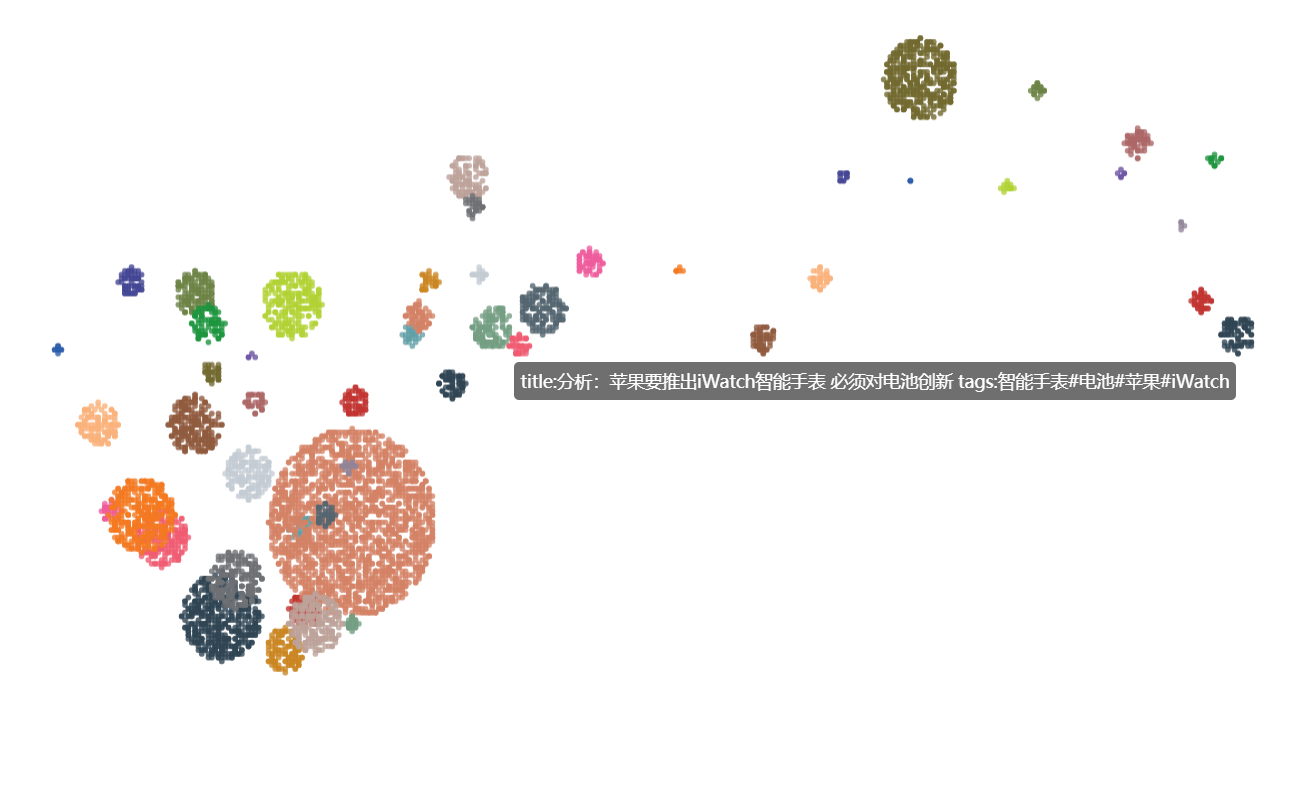
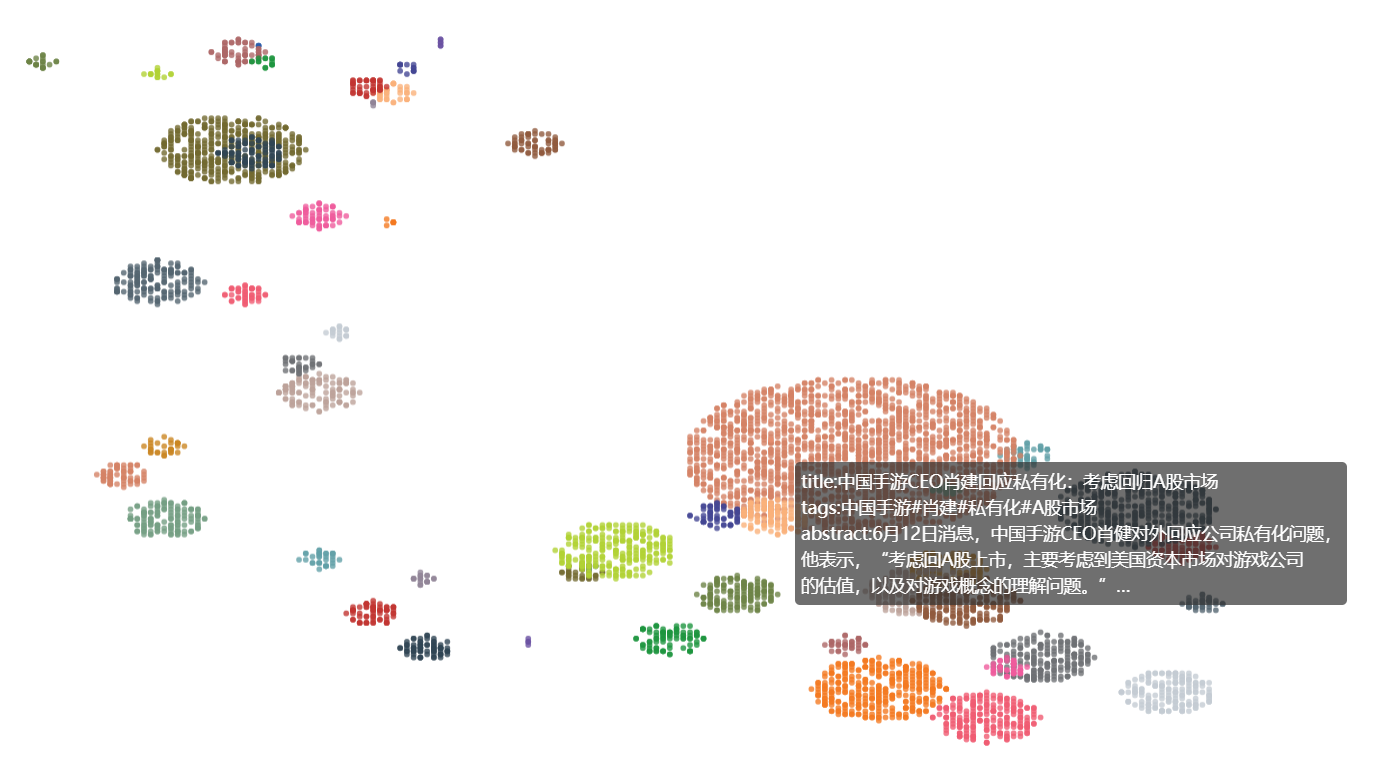
Site updated: 2020-06-12 12:40:28

diff --git a/2020/06/11/Techwalker聚类/index.html b/2020/06/11/Techwalker聚类/index.html
@@ -30,7 +30,7 @@
 <meta property="og:image" content="https://zeroing.tk/img/tech_hbase.png">
 <meta property="og:image" content="https://zeroing.tk/img/tech_result.png">
 <meta property="article:published_time" content="2020-06-11T10:29:59.000Z">
-<meta property="article:modified_time" content="2020-06-11T14:00:36.763Z">
+<meta property="article:modified_time" content="2020-06-12T04:39:32.487Z">
 <meta property="article:author" content="ZY">
 <meta property="article:tag" content="Python">
 <meta property="article:tag" content="课设">
@@ -183,10 +183,16 @@
                 <i class="far fa-calendar"></i>
               </span>
               <span class="post-meta-item-text">发表于</span>
-              
 
-              <time title="创建时间：2020-06-11 18:29:59 / 修改时间：22:00:36" itemprop="dateCreated datePublished" datetime="2020-06-11T18:29:59+08:00">2020-06-11</time>
+              <time title="创建时间：2020-06-11 18:29:59" itemprop="dateCreated datePublished" datetime="2020-06-11T18:29:59+08:00">2020-06-11</time>
             </span>
+              <span class="post-meta-item">
+                <span class="post-meta-item-icon">
+                  <i class="far fa-calendar-check"></i>
+                </span>
+                <span class="post-meta-item-text">更新于</span>
+                <time title="修改时间：2020-06-12 12:39:32" itemprop="dateModified" datetime="2020-06-12T12:39:32+08:00">2020-06-12</time>
+              </span>
             <span class="post-meta-item">
               <span class="post-meta-item-icon">
                 <i class="far fa-folder"></i>
@@ -242,7 +248,7 @@
 <figure class="highlight python"><table><tr><td class="gutter"><pre><span class="line">1</span><br><span class="line">2</span><br><span class="line">3</span><br><span class="line">4</span><br><span class="line">5</span><br><span class="line">6</span><br><span class="line">7</span><br><span class="line">8</span><br><span class="line">9</span><br><span class="line">10</span><br><span class="line">11</span><br><span class="line">12</span><br><span class="line">13</span><br><span class="line">14</span><br><span class="line">15</span><br><span class="line">16</span><br><span class="line">17</span><br><span class="line">18</span><br><span class="line">19</span><br><span class="line">20</span><br><span class="line">21</span><br><span class="line">22</span><br><span class="line">23</span><br><span class="line">24</span><br><span class="line">25</span><br><span class="line">26</span><br><span class="line">27</span><br><span class="line">28</span><br><span class="line">29</span><br><span class="line">30</span><br><span class="line">31</span><br><span class="line">32</span><br><span class="line">33</span><br><span class="line">34</span><br><span class="line">35</span><br><span class="line">36</span><br><span class="line">37</span><br><span class="line">38</span><br><span class="line">39</span><br><span class="line">40</span><br><span class="line">41</span><br><span class="line">42</span><br><span class="line">43</span><br><span class="line">44</span><br></pre></td><td class="code"><pre><span class="line"><span class="keyword">import</span> happybase</span><br><span class="line"><span class="keyword">from</span> sklearn.feature_extraction.text <span class="keyword">import</span> CountVectorizer</span><br><span class="line"><span class="keyword">from</span> sklearn.cluster <span class="keyword">import</span> k_means_</span><br><span class="line"><span class="keyword">import</span> difflib</span><br><span class="line"></span><br><span class="line">num_clusters = <span class="number">50</span></span><br><span class="line"></span><br><span class="line"><span class="comment"># 计算两篇文章标签的近似程度</span></span><br><span class="line"><span class="function"><span class="keyword">def</span> <span class="title">get_equal_rate</span><span class="params">(str1, str2)</span>:</span></span><br><span class="line">    <span class="keyword">return</span> <span class="number">1</span>-difflib.SequenceMatcher(<span class="literal">None</span>, str1, str2).quick_ratio()</span><br><span class="line"></span><br><span class="line">print(<span class="string">'connecting table...'</span>)</span><br><span class="line">connection = happybase.Connection(<span class="string">'master'</span>)</span><br><span class="line">table = connection.table(<span class="string">'tech'</span>)</span><br><span class="line">rawdata = [i[<span class="number">1</span>] <span class="keyword">for</span> i <span class="keyword">in</span> table.scan()]</span><br><span class="line">connection.close()</span><br><span class="line"></span><br><span class="line">print(<span class="string">'getting data...'</span>)</span><br><span class="line">data = []</span><br><span class="line"><span class="keyword">for</span> i <span class="keyword">in</span> rawdata:</span><br><span class="line">    data.append([])</span><br><span class="line">    data[<span class="number">-1</span>] = [i[v].decode(<span class="string">'utf-8'</span>) <span class="keyword">for</span> v <span class="keyword">in</span> [<span class="string">b'essay:abstract'</span>, <span class="string">b'essay:tags'</span>, <span class="string">b'essay:title'</span>]] <span class="comment"># 确保数据以[摘要， 标签， 标题]的形式读入</span></span><br><span class="line">result = &#123;&#125;</span><br><span class="line"></span><br><span class="line">print(<span class="string">'get'</span>, len(data), <span class="string">'data, clusting...'</span>)</span><br><span class="line">count_vec=CountVectorizer()</span><br><span class="line">km_matrix= count_vec.fit_transform([i[<span class="number">1</span>] <span class="keyword">for</span> i <span class="keyword">in</span> data])</span><br><span class="line">k_means_.euclidean_distances = get_equal_rate <span class="comment"># 修改k_means的距离判断标准</span></span><br><span class="line">km = k_means_.KMeans(n_clusters=num_clusters)</span><br><span class="line">km.fit(km_matrix)</span><br><span class="line">labels = km.labels_.tolist()</span><br><span class="line"><span class="keyword">for</span> i <span class="keyword">in</span> range(len(data)):</span><br><span class="line">    <span class="keyword">if</span> int(labels[i]) <span class="keyword">not</span> <span class="keyword">in</span> result.keys():</span><br><span class="line">        result[int(labels[i])] = []</span><br><span class="line">    result[int(labels[i])].append(data[i])</span><br><span class="line"></span><br><span class="line"><span class="comment"># 将结果存入文件，以'@@'作为分割标志</span></span><br><span class="line">print(<span class="string">'inputing file...'</span>)</span><br><span class="line">file = open(<span class="string">'result.txt'</span>, <span class="string">'w'</span>)</span><br><span class="line"><span class="keyword">for</span> k <span class="keyword">in</span> result.keys():</span><br><span class="line">    <span class="keyword">for</span> v <span class="keyword">in</span> result[k]:</span><br><span class="line">        file.write(str(k)+<span class="string">'@@'</span>+<span class="string">'\t'</span>.join(v).replace(<span class="string">'\r\n'</span>, <span class="string">''</span>).replace(<span class="string">'\n'</span>, <span class="string">''</span>)+<span class="string">'\n'</span>)</span><br><span class="line">file.close()</span><br><span class="line">print(<span class="string">'finish'</span>)</span><br></pre></td></tr></table></figure>
 <hr>
 <h2 id="对聚类结果进行可视化展示"><a href="#对聚类结果进行可视化展示" class="headerlink" title="对聚类结果进行可视化展示"></a>对聚类结果进行可视化展示</h2><p>使用pyecharts库绘画</p>
-<figure class="highlight python"><table><tr><td class="gutter"><pre><span class="line">1</span><br><span class="line">2</span><br><span class="line">3</span><br><span class="line">4</span><br><span class="line">5</span><br><span class="line">6</span><br><span class="line">7</span><br><span class="line">8</span><br><span class="line">9</span><br><span class="line">10</span><br><span class="line">11</span><br><span class="line">12</span><br><span class="line">13</span><br><span class="line">14</span><br><span class="line">15</span><br><span class="line">16</span><br><span class="line">17</span><br><span class="line">18</span><br><span class="line">19</span><br><span class="line">20</span><br><span class="line">21</span><br><span class="line">22</span><br><span class="line">23</span><br><span class="line">24</span><br><span class="line">25</span><br><span class="line">26</span><br><span class="line">27</span><br><span class="line">28</span><br><span class="line">29</span><br><span class="line">30</span><br><span class="line">31</span><br><span class="line">32</span><br><span class="line">33</span><br><span class="line">34</span><br><span class="line">35</span><br><span class="line">36</span><br><span class="line">37</span><br><span class="line">38</span><br><span class="line">39</span><br><span class="line">40</span><br><span class="line">41</span><br><span class="line">42</span><br><span class="line">43</span><br><span class="line">44</span><br><span class="line">45</span><br><span class="line">46</span><br><span class="line">47</span><br><span class="line">48</span><br><span class="line">49</span><br><span class="line">50</span><br><span class="line">51</span><br><span class="line">52</span><br><span class="line">53</span><br><span class="line">54</span><br><span class="line">55</span><br><span class="line">56</span><br><span class="line">57</span><br><span class="line">58</span><br><span class="line">59</span><br><span class="line">60</span><br><span class="line">61</span><br></pre></td><td class="code"><pre><span class="line"><span class="keyword">import</span> random</span><br><span class="line"><span class="keyword">from</span> pyecharts.charts <span class="keyword">import</span> Scatter</span><br><span class="line"><span class="keyword">from</span> pyecharts <span class="keyword">import</span> options <span class="keyword">as</span> opts</span><br><span class="line"><span class="keyword">import</span> math</span><br><span class="line"><span class="keyword">from</span> pyecharts.commons.utils <span class="keyword">import</span> JsCode</span><br><span class="line"></span><br><span class="line"><span class="comment"># 设置x轴范围，在下面的画图过程中进行调试，以防由于x轴展示不全而导致数据丢失</span></span><br><span class="line">min_x = <span class="number">10000</span></span><br><span class="line">max_x = <span class="number">-10000</span></span><br><span class="line">setting = opts.InitOpts(width=<span class="string">'1200px'</span>, height=<span class="string">'750px'</span>, page_title=<span class="string">'techwalker聚类'</span>)</span><br><span class="line">scatter = Scatter(setting)</span><br><span class="line"><span class="comment"># 隐藏标签、x轴、y轴</span></span><br><span class="line">scatter.set_global_opts(title_opts=opts.TitleOpts(title=<span class="string">"聚类结果"</span>),</span><br><span class="line">                        xaxis_opts=opts.AxisOpts(is_show=<span class="literal">False</span>),</span><br><span class="line">                        yaxis_opts=opts.AxisOpts(is_show=<span class="literal">False</span>, ),</span><br><span class="line">                        legend_opts=opts.LegendOpts(is_show=<span class="literal">False</span>))</span><br><span class="line"></span><br><span class="line"></span><br><span class="line"><span class="comment"># 随机生成圆形，用以表示聚类结果</span></span><br><span class="line"><span class="function"><span class="keyword">def</span> <span class="title">draw_circle</span><span class="params">(num, radius, centerx, centery, v, k)</span>:</span></span><br><span class="line">	<span class="keyword">global</span> min_x, max_x</span><br><span class="line">    points_x, points_y = [], []</span><br><span class="line">    <span class="keyword">for</span> i <span class="keyword">in</span> range(num):</span><br><span class="line">        <span class="keyword">while</span> <span class="literal">True</span>:</span><br><span class="line">            x = random.randint(-radius, radius)</span><br><span class="line">            y = random.randint(-radius, radius)</span><br><span class="line">            <span class="comment"># 如果(x, y)在以(centerx, centery)为圆心、radius为半径的园内，则进行绘画</span></span><br><span class="line">            <span class="keyword">if</span> (x ** <span class="number">2</span>) + (y ** <span class="number">2</span>) &lt;= (radius ** <span class="number">2</span>):</span><br><span class="line">                points_x.append(centerx + x)</span><br><span class="line">                <span class="keyword">if</span> centerx + x &lt; min_x:</span><br><span class="line">                    min_x = centerx + x</span><br><span class="line">                <span class="keyword">if</span> centerx + x &gt; max_x:</span><br><span class="line">                    max_x = centerx + x</span><br><span class="line">                points_y.append([centery + y, <span class="string">'title:'</span>+v[i][<span class="number">2</span>]+<span class="string">' tags:'</span>+v[i][<span class="number">1</span>]])</span><br><span class="line">                <span class="keyword">break</span></span><br><span class="line">            <span class="keyword">del</span> x, y</span><br><span class="line">    scatter.add_xaxis(points_x)</span><br><span class="line">    <span class="comment"># 配置tooltips使其展示该点数据</span></span><br><span class="line">    scatter.add_yaxis(k, points_y, symbol_size=<span class="number">4.5</span>, label_opts=opts.LabelOpts(is_show=<span class="literal">False</span>), symbol_rotate=<span class="number">90</span>, tooltip_opts=opts.TooltipOpts(formatter=JsCode(<span class="string">"function(params) &#123;return params.value[2];&#125;"</span>)))<span class="comment"># </span></span><br><span class="line"></span><br><span class="line"></span><br><span class="line">print(<span class="string">'loading data...'</span>)</span><br><span class="line">result = &#123;&#125;</span><br><span class="line">file = open(<span class="string">'result.txt'</span>, <span class="string">'r'</span>, encoding=<span class="string">'utf-8'</span>)</span><br><span class="line"><span class="keyword">for</span> i <span class="keyword">in</span> file.readlines():</span><br><span class="line">    temp = i.split(<span class="string">'@@'</span>)</span><br><span class="line">    <span class="keyword">if</span> int(temp[<span class="number">0</span>]) <span class="keyword">not</span> <span class="keyword">in</span> result.keys():</span><br><span class="line">        result[int(temp[<span class="number">0</span>])] = []</span><br><span class="line">    result[int(temp[<span class="number">0</span>])].append(temp[<span class="number">1</span>][:<span class="number">-1</span>].split(<span class="string">'\t'</span>))</span><br><span class="line">file.close()</span><br><span class="line"></span><br><span class="line">print(<span class="string">'total'</span>, len(result), <span class="string">'cluster(s), painting...'</span>)</span><br><span class="line"><span class="comment"># 给定初始圆心(30, 30)</span></span><br><span class="line">position = [<span class="number">30</span>, <span class="number">30</span>]</span><br><span class="line"><span class="keyword">for</span> k <span class="keyword">in</span> result:</span><br><span class="line">    print(<span class="string">'painting cluster'</span>, k, <span class="string">'...'</span>)</span><br><span class="line">    draw_circle(len(result[k]), math.floor(math.pow(len(result[k])/math.pi, <span class="number">0.5</span>)), position[<span class="number">0</span>], position[<span class="number">1</span>], result[k], k)</span><br><span class="line">    position[<span class="number">0</span>] += random.randint(<span class="number">-30</span>, <span class="number">30</span>)</span><br><span class="line">    position[<span class="number">1</span>] += random.randint(<span class="number">-30</span>, <span class="number">30</span>)</span><br><span class="line">scatter.set_global_opts(xaxis_opts=opts.AxisOpts(min_=min_x, max_=max_x, is_show=<span class="literal">False</span>, axislabel_opts=opts.LabelOpts(rotate=<span class="number">90</span>, interval=<span class="number">0</span>)),)</span><br><span class="line">scatter.render(<span class="string">'result.html'</span>) <span class="comment"># 将结果保存到result.html</span></span><br></pre></td></tr></table></figure>
+<figure class="highlight python"><table><tr><td class="gutter"><pre><span class="line">1</span><br><span class="line">2</span><br><span class="line">3</span><br><span class="line">4</span><br><span class="line">5</span><br><span class="line">6</span><br><span class="line">7</span><br><span class="line">8</span><br><span class="line">9</span><br><span class="line">10</span><br><span class="line">11</span><br><span class="line">12</span><br><span class="line">13</span><br><span class="line">14</span><br><span class="line">15</span><br><span class="line">16</span><br><span class="line">17</span><br><span class="line">18</span><br><span class="line">19</span><br><span class="line">20</span><br><span class="line">21</span><br><span class="line">22</span><br><span class="line">23</span><br><span class="line">24</span><br><span class="line">25</span><br><span class="line">26</span><br><span class="line">27</span><br><span class="line">28</span><br><span class="line">29</span><br><span class="line">30</span><br><span class="line">31</span><br><span class="line">32</span><br><span class="line">33</span><br><span class="line">34</span><br><span class="line">35</span><br><span class="line">36</span><br><span class="line">37</span><br><span class="line">38</span><br><span class="line">39</span><br><span class="line">40</span><br><span class="line">41</span><br><span class="line">42</span><br><span class="line">43</span><br><span class="line">44</span><br><span class="line">45</span><br><span class="line">46</span><br><span class="line">47</span><br><span class="line">48</span><br><span class="line">49</span><br><span class="line">50</span><br><span class="line">51</span><br><span class="line">52</span><br><span class="line">53</span><br><span class="line">54</span><br><span class="line">55</span><br><span class="line">56</span><br><span class="line">57</span><br><span class="line">58</span><br><span class="line">59</span><br><span class="line">60</span><br><span class="line">61</span><br><span class="line">62</span><br></pre></td><td class="code"><pre><span class="line"><span class="keyword">import</span> random</span><br><span class="line"><span class="keyword">import</span> re</span><br><span class="line"><span class="keyword">from</span> pyecharts.charts <span class="keyword">import</span> Scatter</span><br><span class="line"><span class="keyword">from</span> pyecharts <span class="keyword">import</span> options <span class="keyword">as</span> opts</span><br><span class="line"><span class="keyword">import</span> math</span><br><span class="line"><span class="keyword">from</span> pyecharts.commons.utils <span class="keyword">import</span> JsCode</span><br><span class="line"></span><br><span class="line"><span class="comment"># 设置x轴范围，在下面的画图过程中进行调试，以防由于x轴展示不全而导致数据丢失</span></span><br><span class="line">min_x = <span class="number">10000</span></span><br><span class="line">max_x = <span class="number">-10000</span></span><br><span class="line">setting = opts.InitOpts(width=<span class="string">'1200px'</span>, height=<span class="string">'750px'</span>, page_title=<span class="string">'techwalker聚类'</span>)</span><br><span class="line">scatter = Scatter(setting)</span><br><span class="line"><span class="comment"># 隐藏标签、x轴、y轴</span></span><br><span class="line">scatter.set_global_opts(title_opts=opts.TitleOpts(title=<span class="string">"聚类结果"</span>),</span><br><span class="line">                        xaxis_opts=opts.AxisOpts(is_show=<span class="literal">False</span>),</span><br><span class="line">                        yaxis_opts=opts.AxisOpts(is_show=<span class="literal">False</span>, ),</span><br><span class="line">                        legend_opts=opts.LegendOpts(is_show=<span class="literal">False</span>))</span><br><span class="line"></span><br><span class="line"></span><br><span class="line"><span class="comment"># 随机生成圆形，用以表示聚类结果</span></span><br><span class="line"><span class="function"><span class="keyword">def</span> <span class="title">draw_circle</span><span class="params">(num, radius, centerx, centery, v, k)</span>:</span></span><br><span class="line">	<span class="keyword">global</span> min_x, max_x</span><br><span class="line">    points_x, points_y = [], []</span><br><span class="line">    <span class="keyword">for</span> i <span class="keyword">in</span> range(num):</span><br><span class="line">        <span class="keyword">while</span> <span class="literal">True</span>:</span><br><span class="line">            x = random.randint(-radius, radius)</span><br><span class="line">            y = random.randint(-radius, radius)</span><br><span class="line">            <span class="comment"># 如果(x, y)在以(centerx, centery)为圆心、radius为半径的园内，则进行绘画</span></span><br><span class="line">            <span class="keyword">if</span> (x ** <span class="number">2</span>) + (y ** <span class="number">2</span>) &lt;= (radius ** <span class="number">2</span>):</span><br><span class="line">                points_x.append(centerx + x)</span><br><span class="line">                <span class="keyword">if</span> centerx + x &lt; min_x:</span><br><span class="line">                    min_x = centerx + x</span><br><span class="line">                <span class="keyword">if</span> centerx + x &gt; max_x:</span><br><span class="line">                    max_x = centerx + x</span><br><span class="line">                points_y.append([centery + y, <span class="string">'title:'</span>+v[i][<span class="number">2</span>], <span class="string">'tags:'</span>+v[i][<span class="number">1</span>], <span class="string">'abstract:'</span>+re.sub(<span class="string">r"(.&#123;"</span>+str(max(len(<span class="string">'title:'</span>+v[i][<span class="number">2</span>]), len(<span class="string">'tags:'</span>+v[i][<span class="number">1</span>])))+<span class="string">"&#125;)"</span>,<span class="string">"\\1&lt;br/&gt;"</span>, v[i][<span class="number">0</span>])])</span><br><span class="line">                <span class="keyword">break</span></span><br><span class="line">            <span class="keyword">del</span> x, y</span><br><span class="line">    scatter.add_xaxis(points_x)</span><br><span class="line">    <span class="comment"># 配置tooltips使其展示该点数据</span></span><br><span class="line">    scatter.add_yaxis(k, points_y, symbol_size=<span class="number">4.5</span>, label_opts=opts.LabelOpts(is_show=<span class="literal">False</span>), symbol_rotate=<span class="number">90</span>, tooltip_opts=opts.TooltipOpts(formatter=JsCode(<span class="string">"function(params) &#123;return params.value[2]+'&lt;br/&gt;'+params.value[3]+'&lt;br/&gt;'+params.value[4];&#125;"</span>)))</span><br><span class="line"></span><br><span class="line"></span><br><span class="line">print(<span class="string">'loading data...'</span>)</span><br><span class="line">result = &#123;&#125;</span><br><span class="line">file = open(<span class="string">'result.txt'</span>, <span class="string">'r'</span>, encoding=<span class="string">'utf-8'</span>)</span><br><span class="line"><span class="keyword">for</span> i <span class="keyword">in</span> file.readlines():</span><br><span class="line">    temp = i.split(<span class="string">'@@'</span>)</span><br><span class="line">    <span class="keyword">if</span> int(temp[<span class="number">0</span>]) <span class="keyword">not</span> <span class="keyword">in</span> result.keys():</span><br><span class="line">        result[int(temp[<span class="number">0</span>])] = []</span><br><span class="line">    result[int(temp[<span class="number">0</span>])].append(temp[<span class="number">1</span>][:<span class="number">-1</span>].split(<span class="string">'\t'</span>))</span><br><span class="line">file.close()</span><br><span class="line"></span><br><span class="line">print(<span class="string">'total'</span>, len(result), <span class="string">'cluster(s), painting...'</span>)</span><br><span class="line"><span class="comment"># 给定初始圆心(30, 30)</span></span><br><span class="line">position = [<span class="number">30</span>, <span class="number">30</span>]</span><br><span class="line"><span class="keyword">for</span> k <span class="keyword">in</span> result:</span><br><span class="line">    print(<span class="string">'painting cluster'</span>, k, <span class="string">'...'</span>)</span><br><span class="line">    draw_circle(len(result[k]), math.floor(math.pow(len(result[k])/math.pi, <span class="number">0.5</span>)), position[<span class="number">0</span>], position[<span class="number">1</span>], result[k], k)</span><br><span class="line">    position[<span class="number">0</span>] += random.randint(<span class="number">-30</span>, <span class="number">30</span>)</span><br><span class="line">    position[<span class="number">1</span>] += random.randint(<span class="number">-30</span>, <span class="number">30</span>)</span><br><span class="line">scatter.set_global_opts(xaxis_opts=opts.AxisOpts(min_=min_x, max_=max_x, is_show=<span class="literal">False</span>, axislabel_opts=opts.LabelOpts(rotate=<span class="number">90</span>, interval=<span class="number">0</span>)),)</span><br><span class="line">scatter.render(<span class="string">'result.html'</span>) <span class="comment"># 将结果保存到result.html</span></span><br></pre></td></tr></table></figure>
 <p>最终结果：<img src="/img/tech_result.png" alt=""></p>
 
     </div>

diff --git a/index.html b/index.html
@@ -173,10 +173,16 @@
                 <i class="far fa-calendar"></i>
               </span>
               <span class="post-meta-item-text">发表于</span>
-              
 
-              <time title="创建时间：2020-06-11 18:29:59 / 修改时间：22:00:36" itemprop="dateCreated datePublished" datetime="2020-06-11T18:29:59+08:00">2020-06-11</time>
+              <time title="创建时间：2020-06-11 18:29:59" itemprop="dateCreated datePublished" datetime="2020-06-11T18:29:59+08:00">2020-06-11</time>
             </span>
+              <span class="post-meta-item">
+                <span class="post-meta-item-icon">
+                  <i class="far fa-calendar-check"></i>
+                </span>
+                <span class="post-meta-item-text">更新于</span>
+                <time title="修改时间：2020-06-12 12:39:32" itemprop="dateModified" datetime="2020-06-12T12:39:32+08:00">2020-06-12</time>
+              </span>
             <span class="post-meta-item">
               <span class="post-meta-item-icon">
                 <i class="far fa-folder"></i>

diff --git a/css/main.css b/css/main.css
@@ -1168,7 +1168,7 @@ pre .javascript .function {
 }
 .links-of-author a::before,
 .links-of-author span.exturl::before {
-  background: #8567f7;
+  background: #52747c;
   border-radius: 50%;
   content: ' ';
   display: inline-block;
